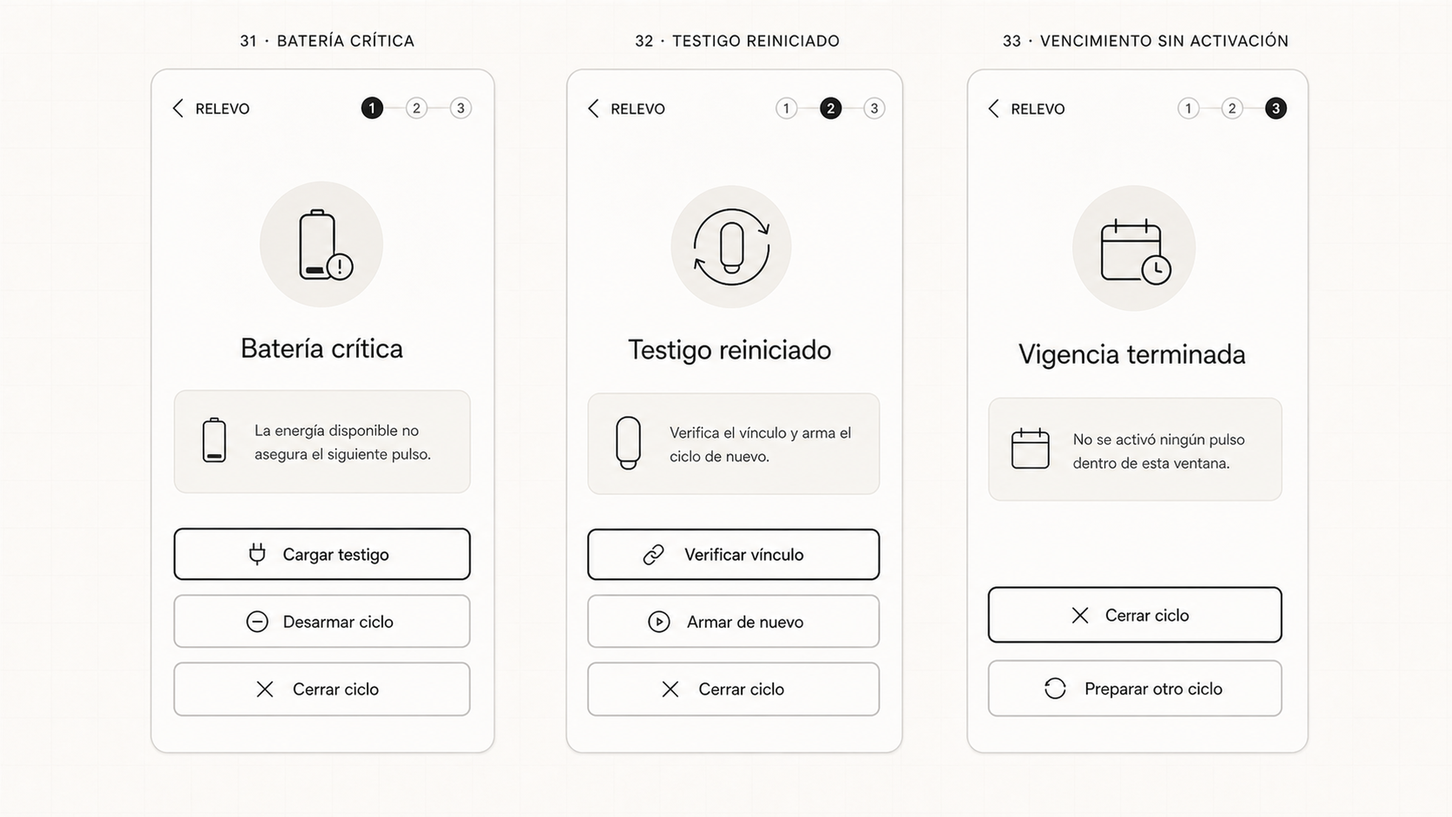
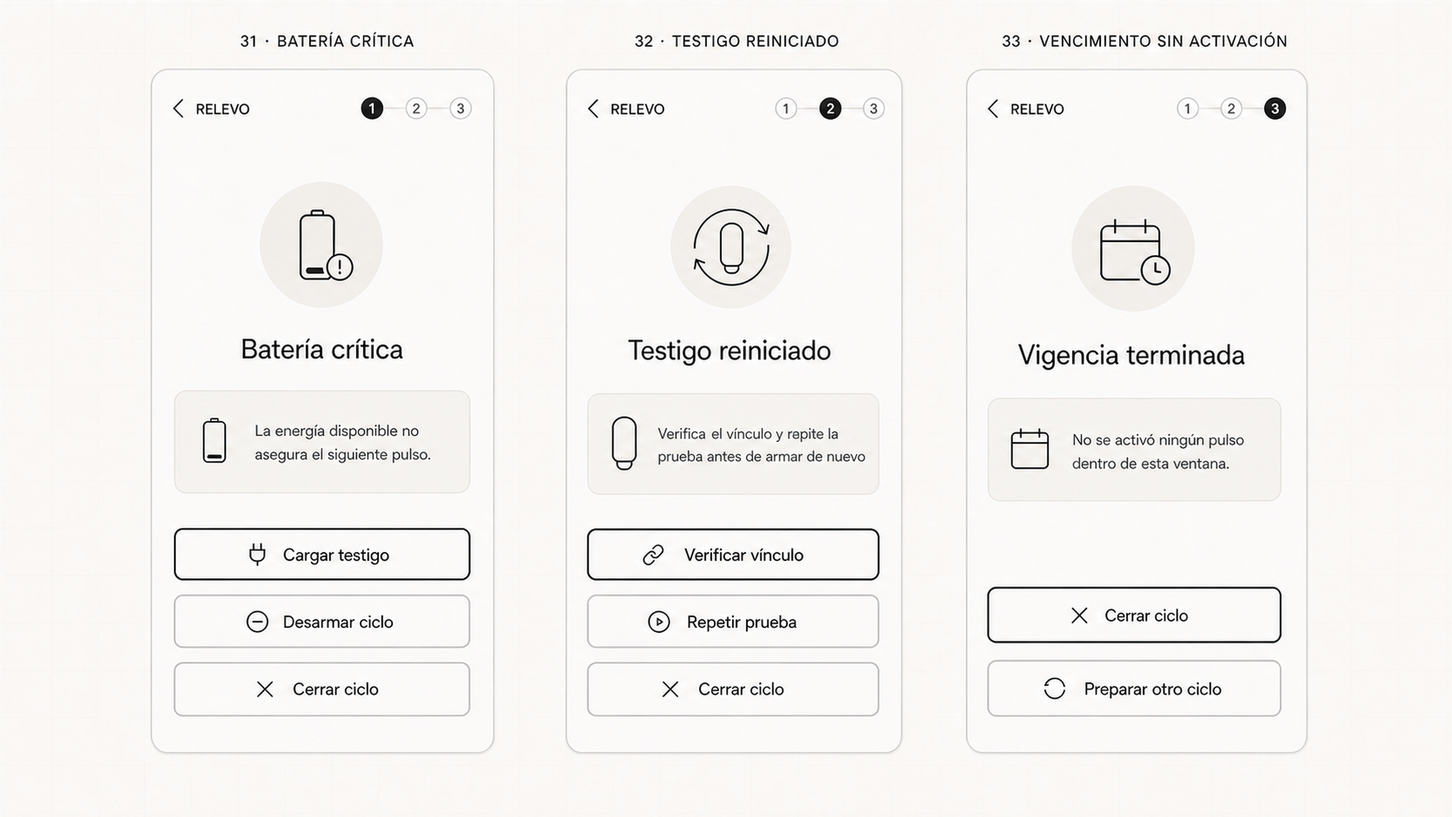
assets: cerrar serie 4K de wireframes del Encargo 17

diff --git a/05_propuesta_phygital/wireframes-referencia-ios-4k/PROMPTS-CORTANA.md b/05_propuesta_phygital/wireframes-referencia-ios-4k/PROMPTS-CORTANA.md
@@ -75,12 +75,12 @@ Se revisaron antes de generar:
 
 **Prompt específico:**
 
-> Crear tres estados de energía, reinicio y vencimiento. En 31, mostrar que la energía disponible no asegura el siguiente pulso y ofrecer cargar, desarmar o cerrar. En 32, mostrar que se debe verificar el vínculo y armar el ciclo de nuevo mediante una acción explícita. En 33, mostrar que terminó la vigencia sin activación y permitir cerrar o preparar otro ciclo, sin atribuir ignorancia, desinterés o incumplimiento. No afirmar entrega futura, persistencia técnica ni rearme automático.
+> Crear tres estados de energía, reinicio y vencimiento. En 31, mostrar que la energía disponible no asegura el siguiente pulso y ofrecer cargar, desarmar o cerrar. En 32, mostrar que se verifica el vínculo y se repite la prueba antes de armar de nuevo; no incluir un botón directo de armado. En 33, mostrar que terminó la vigencia sin activación y permitir cerrar o preparar otro ciclo, sin atribuir ignorancia, desinterés o incumplimiento. No afirmar entrega futura, persistencia técnica ni rearme automático.
 
 **Texto indicado:**
 
 - 31: `Batería crítica` · `La energía disponible no asegura el siguiente pulso.` · `Cargar testigo` · `Desarmar ciclo` · `Cerrar ciclo`.
-- 32: `Testigo reiniciado` · `Verifica el vínculo y arma el ciclo de nuevo.` · `Verificar vínculo` · `Armar de nuevo` · `Cerrar ciclo`.
+- 32: `Testigo reiniciado` · `Verifica el vínculo y repite la prueba antes de armar de nuevo` · `Verificar vínculo` · `Repetir prueba` · `Cerrar ciclo`.
 - 33: `Vigencia terminada` · `No se activó ningún pulso dentro de esta ventana.` · `Cerrar ciclo` · `Preparar otro ciclo`.
 
 ## Lámina E4
@@ -91,16 +91,24 @@ Se revisaron antes de generar:
 
 **Prompt específico:**
 
-> Crear dos estados finales. En 34, mostrar una revisión antes de armar nuevamente, con intención, primer paso, condición provisional y vigencia visibles; la acción debe ser explícita. En 35, mostrar una confirmación de eliminación con la posibilidad clara de cancelar y conservar la configuración para revisarla después. Mantener la decisión en manos de la persona y no sugerir continuidad automática.
+> Crear dos estados finales. En 34, mostrar una revisión antes de armar nuevamente, con intención, primer paso, condición provisional y vigencia visibles; la acción principal debe decir “Continuar al armado” y conducir a un armado posterior explícito. En 35, mostrar una confirmación de eliminación con la posibilidad clara de cancelar y conservar la configuración para revisarla después. Mantener la decisión en manos de la persona y no sugerir continuidad automática.
 
 **Texto indicado:**
 
-- 34: `Rearmar ciclo` · `Revisa la intención antes de armar nuevamente.` · `Intención · Leer un capítulo` · `Primer paso · Abrir el libro` · `Condición provisional · por validar` · `Vigencia · hoy, 20:00–22:00` · `Revisar y armar` · `Volver al inicio`.
+- 34: `Rearmar ciclo` · `Revisa la intención antes de armar nuevamente.` · `Intención · Leer un capítulo` · `Primer paso · Abrir el libro` · `Condición provisional · por validar` · `Vigencia · hoy, 20:00–22:00` · `Continuar al armado` · `Volver al inicio`.
 - 35: `Eliminar configuración` · `¿Quieres eliminar este ciclo?` · `Puedes cancelar y conservarlo para revisarlo después.` · `Cancelar` · `Eliminar`.
+
+## Corrección conceptual aplicada — 25 de agosto de 2026
+
+- **Estado 32:** se reemplazó `Verifica el vínculo y arma el ciclo de nuevo.` por `Verifica el vínculo y repite la prueba antes de armar de nuevo`. El botón `Armar de nuevo` se reemplazó por `Repetir prueba`; se conservaron `Verificar vínculo` y `Cerrar ciclo`.
+- **Estado 34:** se reemplazó el botón `Revisar y armar` por `Continuar al armado`.
+- **Estilo:** no se modificaron retícula, composición, iconografía, paleta, tipografía, proporciones ni los demás estados.
 
 ## Normalización técnica
 
 El built-in `image_gen` entregó cada salida nativa en `1672 × 941 px`. Para cumplir la especificación de la carpeta, cada imagen se convirtió a `3840 × 2160 px` mediante una ampliación proporcional con `Image.Resampling.LANCZOS`. La proporción original se conservó: el contenido quedó en `3838 × 2160 px` y se añadieron dos píxeles de fondo cálido repartidos lateralmente. No se estiró ni se recortó ninguna pantalla.
+
+Para esta corrección, E3 y E4 se editaron mediante localización de texto sobre sus láminas existentes y se volvieron a normalizar con el mismo procedimiento. E1 y E2 no fueron modificadas.
 
 ## Auditoría final
 
@@ -123,6 +131,8 @@ El built-in `image_gen` entregó cada salida nativa en `1672 × 941 px`. Para cu
 - El movimiento del testigo no se detecta automáticamente: el estado se activa cuando la persona informa que cambió de lugar o que debe repetir la relación.
 - El vencimiento se presenta como cierre temporal, no como ignorancia o incumplimiento.
 - El rearme requiere revisión y acción explícita.
+- En el estado 32, repetir la prueba queda antes del armado; no existe un botón directo `Armar de nuevo`.
+- En el estado 34, la acción de continuidad ahora se denomina `Continuar al armado`.
 - La aplicación puede comunicar un estado técnico, pero el testigo sigue siendo un objeto sin pantalla.
 - Las láminas no representan la interfaz final ni cierran las decisiones todavía pendientes de condición, canal, energía, accesibilidad, convivencia o producción.
 
@@ -140,6 +150,9 @@ El built-in `image_gen` entregó cada salida nativa en `1672 × 941 px`. Para cu
 
 - **Versión anterior:** la carpeta contenía las referencias A1–A2 y el contrato visual, pero no las cuatro láminas E1–E4 ni una bitácora específica de esta generación.
 - **Cambio realizado:** se añadieron cuatro imágenes de referencia para los estados 25–35 y este documento con prompts, copy, normalización y auditoría.
+- **Corrección posterior:** se actualizaron únicamente E3/32 y E4/34 para reflejar el orden conceptual correcto entre verificación, repetición de prueba y armado, y para nombrar `Continuar al armado`.
+- **Versión anterior de esos estados:** E3/32 incluía `Armar de nuevo` como acción directa y E4/34 decía `Revisar y armar`.
+- **Motivo de la corrección:** hacer visible que el testigo reiniciado debe verificarse y probarse antes de volver a armar, y separar la continuación de la revisión del armado posterior.
 - **Motivo:** entregar referencias visuales consistentes y calcables para continuar el desarrollo del Encargo 17 en Figma sin alterar la arquitectura de la memoria.
 - **Archivos no modificados:** `STYLE-CONTRACT.md`, los documentos de la memoria, la matriz del Encargo 17 y el tablero Figma. No se incorporaron decisiones técnicas nuevas.
 - **Alcance:** las imágenes son material de referencia de baja/media fidelidad; no validan eficacia, accesibilidad, estabilidad de Android/BLE, valor situado, adopción ni forma final del producto.

diff --git a/05_propuesta_phygital/wireframes-referencia-ios-4k/README.md b/05_propuesta_phygital/wireframes-referencia-ios-4k/README.md
@@ -1,0 +1,79 @@
+# Wireframes de referencia 4K — Encargo 17
+
+## Propósito
+
+Esta carpeta reúne las referencias visuales destinadas a reconstruir en Figma los 35 estados del ciclo mínimo de Relevo. Las láminas traducen la arquitectura descrita en la [memoria integral v2](../../08_memoria/memoria-vigente-v2.md) y en el [anexo de cobertura](../anexo-cobertura-interacciones-encargo-17.md) a composiciones de baja o media fidelidad, sin fijar la interfaz final del producto.
+
+Cada PNG mide exactamente `3840 × 2160 px`. El lenguaje gráfico es contemporáneo, minimalista e inspirado en principios de composición asociados a iOS, pero no copia componentes de Apple ni modifica la decisión de usar Android como plataforma técnica inicial.
+
+## Inventario y cobertura
+
+| Lámina | Estados | Contenido |
+| --- | --- | --- |
+| [A1](A1-configuracion-ios-4k.png) | 01–03 | Inicio, datos incompletos y permiso requerido. |
+| [A2](A2-configuracion-ios-4k.png) | 04–06 | Permiso no concedido, revisión y salida voluntaria. |
+| [B1a](B1a-vinculacion-ios-4k.png) | 07–08 | Búsqueda, identificación y elección del testigo. |
+| [B1b](B1b-vinculacion-ios-4k.png) | 09–10 | Testigo incorrecto y batería baja. |
+| [B2a](B2a-prueba-ios-4k.png) | 11–12 | Prueba situada y señal no percibida. |
+| [B2b](B2b-prueba-ios-4k.png) | 13–14 | Señal intrusiva y preparación previa al armado. |
+| [C1](C1-armado-ios-4k.png) | 15–17 | Armado en curso, confirmación y fallo ambiguo. |
+| [C2](C2-armado-ios-4k.png) | 18–19 | Desarmado voluntario y edición durante un ciclo activo. |
+| [D1](D1-espera-ios-4k.png) | 20–22 | Espera, orden válida y orden expirada. |
+| [D2](D2-senal-ios-4k.png) | 23–24 | Pulso situado y respuestas igualmente válidas. |
+| [E1](E1-cierre-ios-4k.png) | 25–27 | Cierre, cambio de intención y permiso revocado. |
+| [E2](E2-recuperacion-ios-4k.png) | 28–30 | Segundo plano, pérdida de vínculo y cambio de lugar. |
+| [E3](E3-recuperacion-ios-4k.png) | 31–33 | Batería crítica, reinicio y vencimiento sin activación. |
+| [E4](E4-finales-ios-4k.png) | 34–35 | Rearme explícito y eliminación. |
+
+La serie distingue la naturaleza de cada estado:
+
+- **Aplicación:** 01–06, 16, 18–20, 25–28 y 33–35.
+- **Interacción coordinada entre aplicación, testigo y lugar:** 07–15, 17, 21–22 y 29–32.
+- **Situación física:** 23; representa el pulso emitido en el lugar y no una pantalla.
+- **Anotación de comportamiento:** 24; compara respuestas posibles sin afirmar que el sistema observe o juzgue la conducta.
+
+## Cómo usarlas en Figma
+
+1. Importar cada PNG como referencia bloqueada en una página separada.
+2. Crear encima marcos móviles editables y reconstruir componentes, texto y espaciado.
+3. Mantener la numeración 01–35 y las continuidades declaradas en el anexo.
+4. Tratar las condiciones, permisos, umbrales de batería y cualidades del pulso como hipótesis provisionales.
+5. No convertir las láminas en evidencia de validación ni añadir funciones no respaldadas por la memoria.
+
+El tablero evaluable de nueve marcos continúa siendo la síntesis requerida por el Encargo 17. Estas catorce láminas son un anexo de profundidad para dibujar todos los estados posibles sin sobrecargar la entrega principal.
+
+## Criterios de coherencia
+
+- Un ciclo contiene una intención, un primer paso, una condición observable provisional, una vigencia, un testigo situado y un pulso posterior.
+- La persona puede continuar, ignorar, silenciar, modificar, desarmar o cerrar sin evaluación moral ni registro de cumplimiento.
+- Relevo no bloquea aplicaciones, no puntúa, no infiere estados subjetivos y no se rearma automáticamente.
+- El testigo conserva una interacción física mínima; la aplicación configura, explica estados técnicos y facilita recuperación.
+- El pulso físico no se presenta como una notificación convencional del teléfono.
+
+El sistema gráfico completo se documenta en [STYLE-CONTRACT.md](STYLE-CONTRACT.md). Los prompts, correcciones y decisiones de producción se conservan en [PROMPTS-LINK.md](PROMPTS-LINK.md), [PROMPTS-ALOY.md](PROMPTS-ALOY.md), [PROMPTS-CORTANA.md](PROMPTS-CORTANA.md) y [NAVI-auditoria-A1.md](NAVI-auditoria-A1.md). El cierre transversal está registrado en [GERALT-auditoria-final.md](GERALT-auditoria-final.md).
+
+## Producción y auditoría
+
+Las imágenes fueron generadas mediante `image_gen`, revisadas por familias y normalizadas proporcionalmente a 4K. La supervisión verificó cobertura correlativa, legibilidad, coherencia de acciones y ausencia de patrones visuales propios de Android. Las correcciones finales evitaron un armado prematuro en el estado 14, precisaron la orden del estado 21, exigieron repetir la prueba tras el reinicio del estado 32 y mantuvieron el rearme del estado 34 como decisión explícita.
+
+## Límites
+
+Estas láminas no validan usabilidad, accesibilidad, percepción del pulso, estabilidad de BLE, ejecución en segundo plano, autonomía energética, forma o materialidad. Su precisión es estructural: permite discutir y prototipar la experiencia con trazabilidad, pero no reemplaza pruebas posteriores.
+
+---
+
+## Registro de creación (disclaimer)
+
+### 2026-08-25 — Serie completa de referencias 4K
+
+- **Cambio:** se creó una serie de catorce láminas que representa los estados 01–35 y se documentaron su uso, cobertura, reglas y límites.
+- **Versión anterior:** existía una serie sintética de siete láminas y un tablero editable de menor detalle.
+- **Motivo:** ofrecer referencias grandes, legibles y consistentes que puedan reconstruirse manualmente en Figma sin perder las decisiones de la memoria.
+- **Alcance:** material de baja o media fidelidad; no sustituye la entrega evaluable, no constituye validación y no fija el diseño final.
+
+### 2026-08-25 — Auditoría independiente
+
+- **Cambio:** se incorporó el veredicto transversal sobre cobertura, secuencia, autonomía, lenguaje visual y aptitud para reconstrucción.
+- **Versión anterior:** el documento reunía la serie y sus controles de producción, pero no enlazaba una auditoría final separada.
+- **Motivo:** distinguir la creación de las láminas de su revisión de cierre.
+- **Alcance:** revisión de consistencia; no equivale a validación con usuarios ni técnica.

diff --git a/05_propuesta_phygital/wireframes-referencia-ios-4k/STYLE-CONTRACT.md b/05_propuesta_phygital/wireframes-referencia-ios-4k/STYLE-CONTRACT.md
@@ -2,7 +2,7 @@
 
 ## Propósito
 
-Este contrato fija el sistema visual utilizado en las láminas `A1-configuracion-ios-4k.png` y `A2-configuracion-ios-4k.png`. Su función es permitir que otra persona pueda reconstruir los wireframes en Figma manteniendo continuidad entre estados, sin convertir estas referencias en una interfaz final ni en una copia literal de iOS.
+Este contrato fija el sistema visual de las catorce láminas 4K que cubren los estados 01–35. Su función es permitir que otra persona pueda reconstruir los wireframes en Figma manteniendo continuidad entre estados, sin convertir estas referencias en una interfaz final ni en una copia literal de iOS.
 
 La estética toma referencias contemporáneas de composición iOS —tarjetas agrupadas, hojas inferiores, navegación sobria y jerarquía espacial—, pero el sistema representado sigue siendo Relevo y su arquitectura inicial continúa siendo Android. La referencia visual no modifica esa decisión técnica.
 
@@ -136,3 +136,10 @@ El built-in `image_gen` produjo ambas imágenes en `1672 × 941 px`. Cada salida
 - **Alcance:** solo se modificaron las filas 03 y 04 del mapa de copia; no se alteran las decisiones de plataforma, la arquitectura phygital ni el alcance conceptual de Relevo.
 - **Prompt registrado:** edición localizada con el built-in `image_gen`; A1 fue el objetivo y A2 la referencia visual obligatoria. Se indicó conservar composición, retícula, estilo, estados 01–02 y todas las acciones, cambiando únicamente el cuerpo textual del estado 03 por `Relevo necesita consultar el estado de uso de la aplicación elegida para observar la condición provisional durante el ciclo`.
 - **Auditoría:** la salida se revisó visualmente por legibilidad, ausencia de la errata de la frase del estado 03, coherencia con la memoria v2, ausencia de interfaz Android literal y conservación del testigo físico sin pantalla. La salida nativa de `1672 × 941 px` se normalizó proporcionalmente a `3840 × 2160 px` mediante ajuste por altura y relleno lateral mínimo, sin estirar el contenido.
+
+### 2026-08-25 — Extensión del contrato a la serie completa
+
+- **Cambio:** se amplió el alcance declarado desde las dos láminas de configuración a las catorce láminas que cubren los estados 01–35.
+- **Versión anterior:** el contrato se describía como aplicable únicamente a A1 y A2, aunque las familias posteriores ya reutilizaban sus reglas.
+- **Motivo:** registrar formalmente la continuidad visual de toda la serie y evitar que las láminas B–E se interpreten como referencias aisladas.
+- **Alcance:** no se modifican los tokens ni las reglas visuales; solo se corrige el alcance documental del contrato.

diff --git a/05_propuesta_phygital/wireframes-referencia-ios-4k/PROMPTS-LINK.md b/05_propuesta_phygital/wireframes-referencia-ios-4k/PROMPTS-LINK.md
@@ -69,7 +69,7 @@ La primera generación de esta lámina fue descartada durante la auditoría porq
 **Archivo final:** `B2b-prueba-ios-4k.png`  
 **Estados:** 13 Señal intrusiva; 14 Listo para armar.
 
-Se solicitó `La señal interfiere`, `Ajusta el pulso o cambia el lugar.`, `Resultado declarado por ti`, `Ajustar señal`, `Cambiar lugar`, `Probar de nuevo` y `No armar`. La pantalla de armado debía conservar `Leer un capítulo`, `Abrir el libro`, `Condición provisional · por validar`, `Vigencia · hoy, 20:00–22:00`, `Testigo situado`, `El armado es manual`, `Armar ciclo`, `Volver a probar` y `Desarmar`.
+Se solicitó `La señal interfiere`, `Ajusta el pulso o cambia el lugar.`, `Resultado declarado por ti`, `Ajustar señal`, `Cambiar lugar`, `Probar de nuevo` y `No armar`. La pantalla de armado conserva `Leer un capítulo`, `Abrir el libro`, `Condición provisional · por validar`, `Vigencia · hoy, 20:00–22:00` y `Testigo situado`. Tras la auditoría conceptual del estado 14, sus acciones finales quedaron como `Continuar al armado`, `Volver a probar` y `Salir sin armar`.
 
 La primera generación mostraba una silueta cilíndrica en ambas pantallas. Se descartó por inconsistencia con B1a, B1b y la versión final de B2a. La versión final repite el testigo compacto redondeado y mantiene las líneas dentro de los marcos.
 
@@ -126,3 +126,11 @@ No se modificaron `STYLE-CONTRACT.md`, `A2-configuracion-ios-4k.png`, la memoria
 **Motivo:** dejar trazabilidad de cómo se generaron y revisaron las imágenes, sin modificar el contrato visual ni presentar las referencias como una interfaz final o como validación del producto.
 
 **Alcance:** este archivo documenta las imágenes B1a, B1b, B2a y B2b; no reemplaza la matriz del Encargo 17 ni cierra las decisiones técnicas pendientes de la memoria.
+
+### 2026-08-25 — Corrección conceptual del estado 14
+
+- **Archivo afectado:** `B2b-prueba-ios-4k.png`.
+- **Antes:** el estado `14 · LISTO PARA ARMAR` mostraba los botones `Armar ciclo` y `Desarmar`.
+- **Después:** el botón principal ahora dice `Continuar al armado` y el botón de salida dice `Salir sin armar`.
+- **Motivo:** el estado 14 todavía es previo al armado; `Desarmar` corresponde a un ciclo ya activo y confundía la transición del flujo. Las nuevas etiquetas explicitan el paso siguiente y conservan una salida voluntaria antes de armar.
+- **Conservado:** se mantuvieron la composición, ilustraciones, tarjetas, jerarquía, escala de grises, formato 3840 × 2160 y todos los demás textos y elementos de la lámina. Se aplicó una corrección focalizada de texto para no regenerar la imagen completa.

diff --git a/05_propuesta_phygital/wireframes-referencia-ios-4k/PROMPTS-ALOY.md b/05_propuesta_phygital/wireframes-referencia-ios-4k/PROMPTS-ALOY.md
@@ -65,7 +65,7 @@ Se generaron dos superficies móviles alineadas para:
 Se generaron tres superficies móviles alineadas para:
 
 1. **20 · Armado en espera** — intención, primer paso, condición provisional, vigencia, testigo situado y acción `Desarmar`.
-2. **21 · Condición cumplida** — condición reconocida y orden vigente; estado `Enviando el patrón al testigo`; no se declara que la intención fue realizada ni que la entrega física ya fue confirmada.
+2. **21 · Condición cumplida** — condición reconocida y orden vigente; estado `Enviando la orden al testigo`; no se declara que la intención fue realizada ni que la entrega física ya fue confirmada.
 3. **22 · Orden expirada** — la vigencia terminó antes de una entrega válida; se explicita `No se emitirá un pulso tardío`; acciones `Cerrar ciclo` y `Preparar de nuevo`.
 
 La primera salida D1 omitió el nombre `RELEVO` en la navegación superior. Se revisó visualmente y se realizó una edición focalizada que añadió `RELEVO` a las tres superficies sin alterar la arquitectura, los estados ni el contenido. La versión corregida es la utilizada como archivo final.
@@ -127,6 +127,8 @@ Esta operación no recortó pantallas, no estiró el contenido y no modificó la
 **Archivos nuevos:** se añadieron `C1-armado-ios-4k.png`, `C2-armado-ios-4k.png`, `D1-espera-ios-4k.png` y `D2-senal-ios-4k.png`. No reemplazan las láminas A1, A2 ni las referencias A/B existentes.
 
 **Corrección aplicada:** D1 tuvo una edición focalizada para añadir `RELEVO` en la navegación superior y hacer consistente la serie. No se modificó el significado de los estados 20–22.
+
+**Corrección posterior:** en el estado 21 de D1 se reemplazó únicamente `Enviando el patrón al testigo` por `Enviando la orden al testigo`. Se conservaron la composición, los estados 20–22, la navegación, los iconos, los botones, la paleta y el resto del texto. La imagen fue inspeccionada y conservada en 3840 × 2160 px. No se hizo commit ni push.
 
 **Decisión:** D2 utiliza una escena física y un diagrama porque los estados 23–24 no deben representarse como una pantalla del testigo ni como un registro móvil obligatorio.
 

diff --git a/05_propuesta_phygital/wireframes-referencia-ios-4k/GERALT-auditoria-final.md b/05_propuesta_phygital/wireframes-referencia-ios-4k/GERALT-auditoria-final.md
@@ -1,0 +1,34 @@
+# Auditoría final independiente — Serie 4K del Encargo 17
+
+## Veredicto
+
+**Aprobado para reconstrucción en Figma.** No se detectaron defectos materiales que impidan usar las catorce láminas como referencias de baja o media fidelidad.
+
+## Controles realizados
+
+| Criterio | Resultado |
+| --- | --- |
+| Cobertura correlativa | Estados 01–35 completos y sin omisiones. |
+| Resolución | Catorce PNG de `3840 × 2160 px`. |
+| Secuencia | Coherente con la memoria integral v2 y la matriz del Encargo 17. |
+| Acciones | No existen acciones prematuras; el rearme requiere una decisión explícita. |
+| Autonomía | No hay bloqueo, puntuación, inferencia de conducta ni registro de cumplimiento. |
+| Capas del sistema | Aplicación, testigo y situación física se diferencian de forma comprensible. |
+| Estados 23–24 | Representan el pulso situado y las respuestas posibles sin convertirlas en cumplimiento. |
+| Lenguaje visual | Minimalista y contemporáneo, inspirado en composición iOS sin reproducir una interfaz Android. |
+| Uso previsto | Texto y jerarquía suficientemente legibles para calcar en Figma. |
+
+## Alcance del veredicto
+
+La aprobación corresponde a cobertura, coherencia y utilidad como referencia de wireframes. No valida usabilidad, factibilidad técnica, materialidad, percepción del pulso ni eficacia de Relevo. El tablero de tres interacciones y nueve marcos continúa siendo la entrega evaluable; esta serie funciona como anexo exhaustivo.
+
+---
+
+## Registro de creación (disclaimer)
+
+### 2026-08-25 — Auditoría independiente de cierre
+
+- **Cambio:** se registró una revisión transversal de las catorce láminas y los 35 estados.
+- **Versión anterior:** las familias visuales contaban con revisiones parciales de producción, pero no con un veredicto único de cierre.
+- **Motivo:** comprobar de manera independiente la cobertura y la coherencia antes de publicar la serie como referencia vigente.
+- **Alcance:** auditoría documental y visual; no constituye validación con usuarios ni prueba técnica del producto.

diff --git a/05_propuesta_phygital/entrega-encargo-17.md b/05_propuesta_phygital/entrega-encargo-17.md
@@ -14,7 +14,7 @@ La entrega contiene exactamente tres interacciones y nueve marcos. Ocho marcos c
 
 Como complemento, el [anexo de cobertura de interacciones](anexo-cobertura-interacciones-encargo-17.md) registra y representa las 35 ramificaciones del ciclo mínimo en una [página separada del mismo archivo Figma](https://www.figma.com/design/kjzrPcLGWfoJZAVANivEo4?node-id=13-2). El anexo permite revisar validaciones, salidas voluntarias, fallos técnicos y estados límite sin alterar el tablero exigido por la pauta ni presentarlos como funciones adicionales.
 
-Además, se produjeron [siete láminas detalladas de referencia](wireframes-referencia/README.md) para reconstruir manualmente los 35 estados en Figma. Estas imágenes amplían componentes y jerarquías, pero no forman parte de la cuenta evaluable de nueve marcos ni fijan el diseño final.
+Además, se produjeron [catorce láminas de referencia en 4K](wireframes-referencia-ios-4k/README.md) para reconstruir manualmente los 35 estados en Figma. Estas imágenes amplían componentes y jerarquías, pero no forman parte de la cuenta evaluable de nueve marcos ni fijan el diseño final. La serie sintética anterior de siete láminas se conserva como registro de proceso.
 
 ## Resumen del recorrido
 
@@ -85,6 +85,13 @@ El anexo mantiene cinco familias de estados: configuración; vinculación y prue
 ---
 
 ## Registro de cambios (disclaimer)
+
+### 2026-08-25 — Serie completa de referencias 4K
+
+- **Cambio:** se reemplazó el enlace principal a siete láminas sintéticas por una serie auditada de catorce láminas 4K que cubre los estados 01–35.
+- **Versión anterior:** la documentación remitía a siete imágenes de menor detalle.
+- **Motivo:** facilitar una reconstrucción legible y consistente en Figma, con acciones y recuperaciones diferenciadas por estado.
+- **Alcance:** la serie anterior no se elimina; las nuevas referencias tampoco alteran los nueve marcos evaluables ni acreditan validación.
 
 ### 2026-08-25 — Láminas de referencia para Figma
 

diff --git a/05_propuesta_phygital/anexo-cobertura-interacciones-encargo-17.md b/05_propuesta_phygital/anexo-cobertura-interacciones-encargo-17.md
@@ -7,7 +7,7 @@ Este anexo amplía el tablero evaluable de nueve marcos sin reemplazarlo. Su fun
 - **Figma:** [Anexo · Cobertura de estados](https://www.figma.com/design/kjzrPcLGWfoJZAVANivEo4?node-id=13-2)
 - **Página:** `13:2`.
 - **Tablero:** `13:3`.
-- **Referencias detalladas para calcar:** [siete láminas con los 35 estados](wireframes-referencia/README.md).
+- **Referencias detalladas para calcar:** [catorce láminas 4K con los 35 estados](wireframes-referencia-ios-4k/README.md).
 
 La cobertura es exhaustiva respecto del ciclo mínimo definido en la [memoria integral v2](../08_memoria/memoria-vigente-v2.md), no respecto de funciones futuras. Cada estado tiene un wireframe independiente para poder revisarlo; esto no significa que la persona deba mirar el teléfono durante todo el recorrido. En uso, el pulso situado del testigo conserva el papel central y Android se limita a configurar, informar estado y facilitar recuperación.
 
@@ -107,6 +107,13 @@ Los wireframes describen estructura y comportamiento esperado. No validan la con
 ---
 
 ## Registro de cambios (disclaimer)
+
+### 2026-08-25 — Cobertura visual 4K por estado
+
+- **Cambio:** se sustituyó la referencia principal de siete láminas por catorce composiciones 4K, manteniendo la correspondencia exacta con la matriz 01–35.
+- **Versión anterior:** el anexo remitía a una síntesis visual de siete imágenes.
+- **Motivo:** separar mejor estados, escenas físicas y recuperaciones para facilitar su reconstrucción en Figma.
+- **Alcance:** no se incorporan nuevas funciones ni se modifica la matriz; la serie anterior permanece como historial.
 
 ### 2026-08-25 — Referencias visuales detalladas
 

diff --git a/05_propuesta_phygital/README.md b/05_propuesta_phygital/README.md
@@ -25,7 +25,8 @@ Si una función puede resolverse de igual manera mediante una notificación conv
 
 - [Entrega de Encargo 17 y archivo Figma](entrega-encargo-17.md)
 - [Anexo de cobertura de interacciones de Encargo 17](anexo-cobertura-interacciones-encargo-17.md)
-- [Láminas detalladas de wireframes para calcar](wireframes-referencia/README.md)
+- [Láminas 4K de wireframes para calcar — serie vigente](wireframes-referencia-ios-4k/README.md)
+- [Láminas sintéticas anteriores — registro de proceso](wireframes-referencia/README.md)
 - [Preparación escrita de Encargo 17](preparacion-escrita-encargo-17.md)
 - [Requisitos de la pauta](../01_contexto_y_fuentes/encargo-17-requisitos.md)
 - [Memoria integral v2 vigente](../08_memoria/memoria-vigente-v2.md)
@@ -37,6 +38,13 @@ La formulación vigente es una hipótesis. El ciclo estructural del Encargo 17 q
 ---
 
 ## Registro de cambios
+
+### 2026-08-25 — Referencias 4K vigentes
+
+- **Cambio:** se incorporó como referencia vigente una serie de catorce láminas 4K para los estados 01–35 y se conservó la serie sintética anterior como historial.
+- **Versión anterior:** el índice solo enlazaba siete láminas de menor detalle.
+- **Motivo:** facilitar el calco en Figma con mayor legibilidad y trazabilidad por estado.
+- **Alcance:** actualización documental y visual; no valida la experiencia ni modifica el alcance de Relevo.
 
 ### 2026-08-25 — Láminas detalladas para reconstrucción
 
